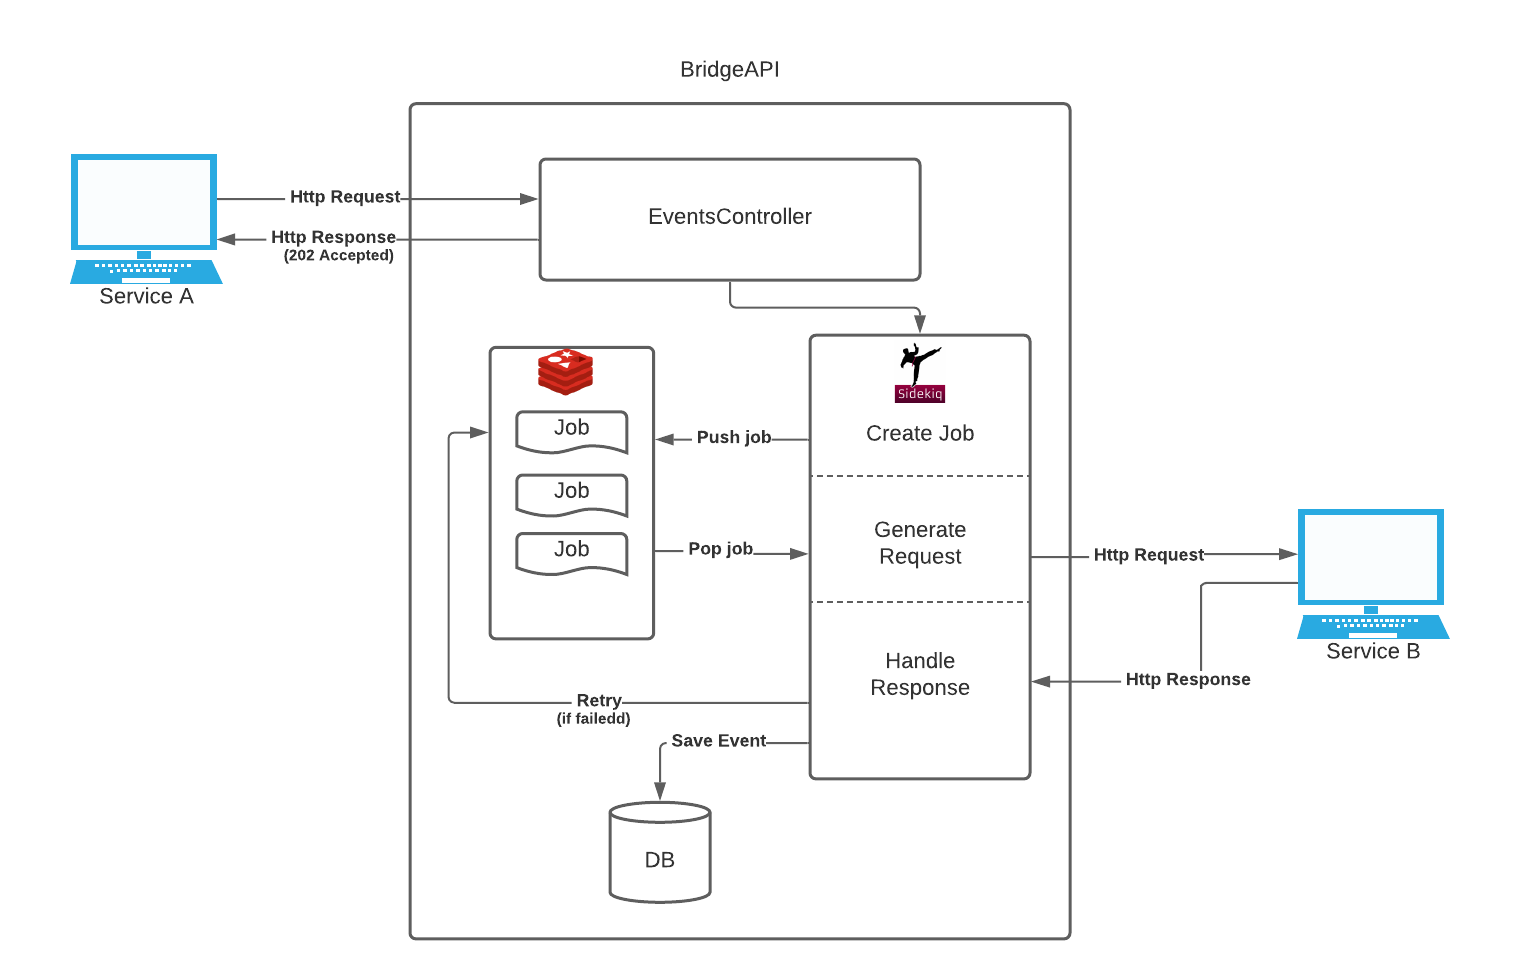
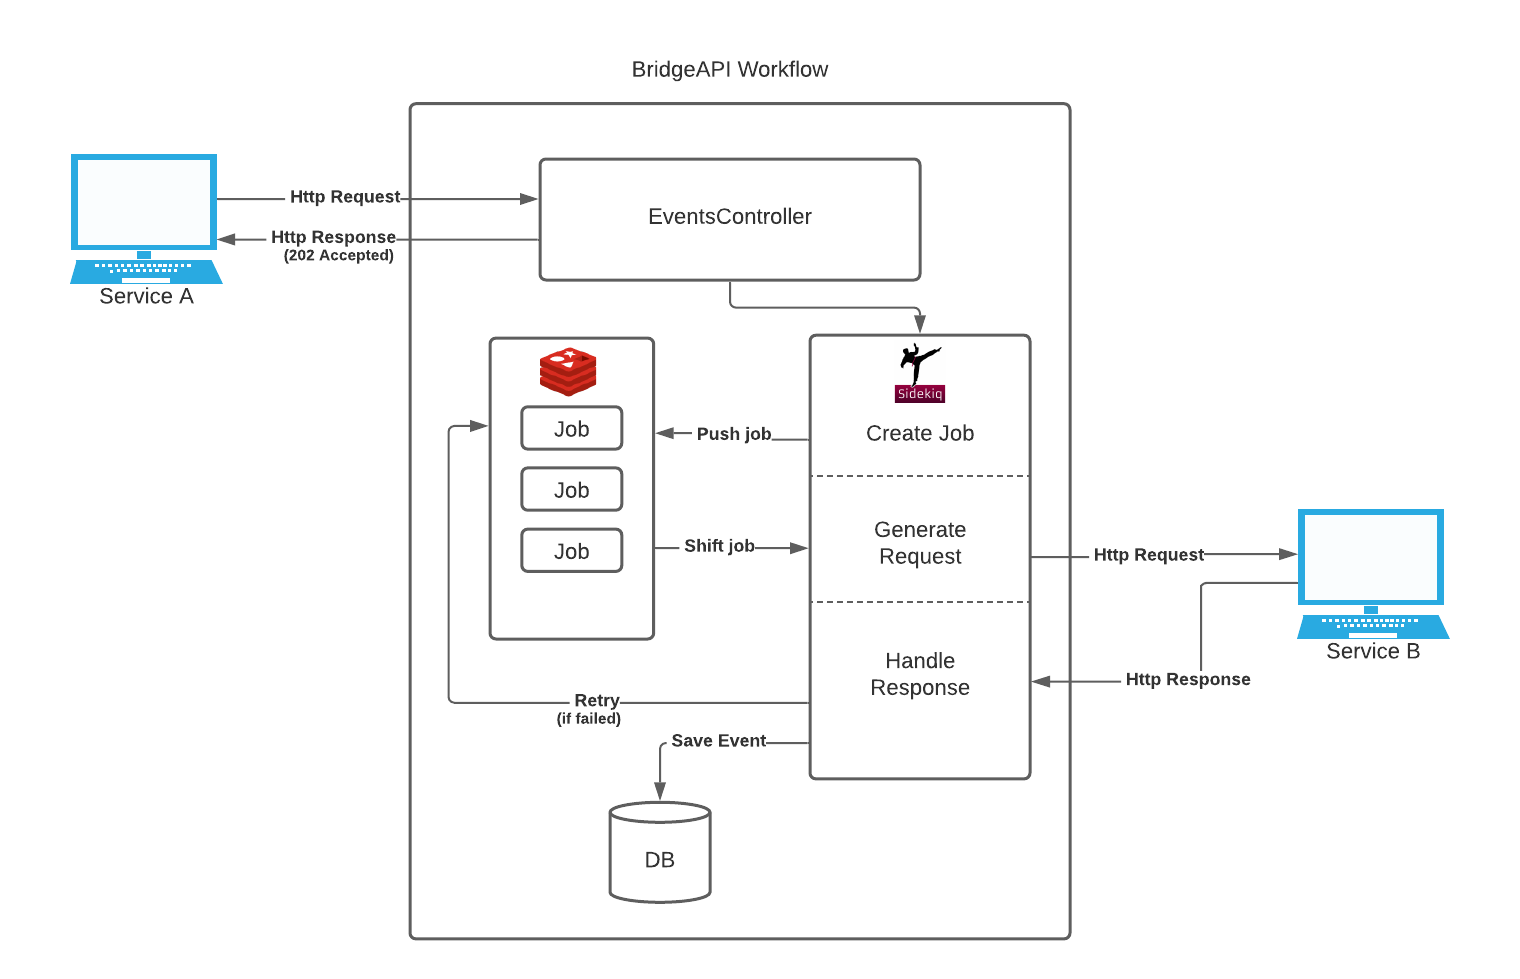
updated event diagram and added retry table

Changed region(s): [[0.3092, 0.3371, 0.5257, 0.6129], [0.402, 0.0613, 0.5566, 0.0919], [0.3711, 0.7048, 0.4329, 0.7354]]

diff --git a/index.html b/index.html
@@ -351,22 +351,39 @@
                   we included the retry feature was to let the user set the
                   importance of completing the outbound request so that five
                   retries could be set for consequential bridges or in cases
-                  where the receiving API is less reliable. [Visual idea: code
-                  snippet for retries functionality].
+                  where the receiving API is less reliable.
+                </p>
+                <p>
+                  The following code snippet represents the formula for exponential
+                  backoff between each retry:
+                  <code
+                    >(retry_count ** 4) + 15 + (rand(30) * (retry_count +
+                    1))</code
+                  >
+                  With 5 retries, the attempts will be spread out over nearly 11 minutes.
+                  <pre>
+                    # | Next retry backoff | Total waiting time
+                    -------------------------------------------
+                    1 |     0d  0h  0m 30s |     0d  0h  0m 30s
+                    2 |     0d  0h  0m 46s |     0d  0h  1m 16s
+                    3 |     0d  0h  1m 16s |     0d  0h  2m 32s
+                    4 |     0d  0h  2m 36s |     0d  0h  5m  8s
+                    5 |     0d  0h  5m 46s |     0d  0h 10m 54s                 
+                  </pre>
                 </p>
 
                 <p>
                   In addition, users can decide between an instant forwarding of
-                  the request or a delay of 15 minutes, 30 minutes, 1 hour, or 1
-                  day. We decided it would be logical for certain workflows to
-                  insert a delay between links in a workflow chain. For example,
-                  if a user wanted to snooze all forwarding requests of a bridge
-                  for a day, the 1 day delay option would ensure that all
-                  incoming requests are received and held until the following
-                  day. Another advantage is that it gives the user time to abort
-                  or deactivate the bridge if circumstances during the delay
-                  period call for it. [Visual idea: code snippet - Sidekiq delay
-                  call].
+                  the request or manually setting a delay of 15 minutes, 30
+                  minutes, 1 hour, or 1 day before the first request attempt. We
+                  decided it would be logical for certain workflows to include a
+                  delay between links in a workflow chain. For example, if a
+                  user wanted to snooze all forwarding requests of a bridge for
+                  a day, the 1 day delay option would ensure that all incoming
+                  requests are received and held until the following day.
+                  Another advantage is that it gives the user time to abort or
+                  deactivate the bridge if circumstances during the delay period
+                  call for it. [Visual idea: code snippet - Sidekiq delay call].
                 </p>
 
                 <p>
@@ -378,8 +395,7 @@
                   be the guaranteed delay between the incoming webhook and the
                   <i>first</i>
                   forward request attempt. The delay between retries is of
-                  lesser importance. [Visual idea - Sidekiq algorithm for retry
-                  intervals].
+                  lesser importance. 
                 </p>
                 <p>
                   In order to include sensitive information in the body or
